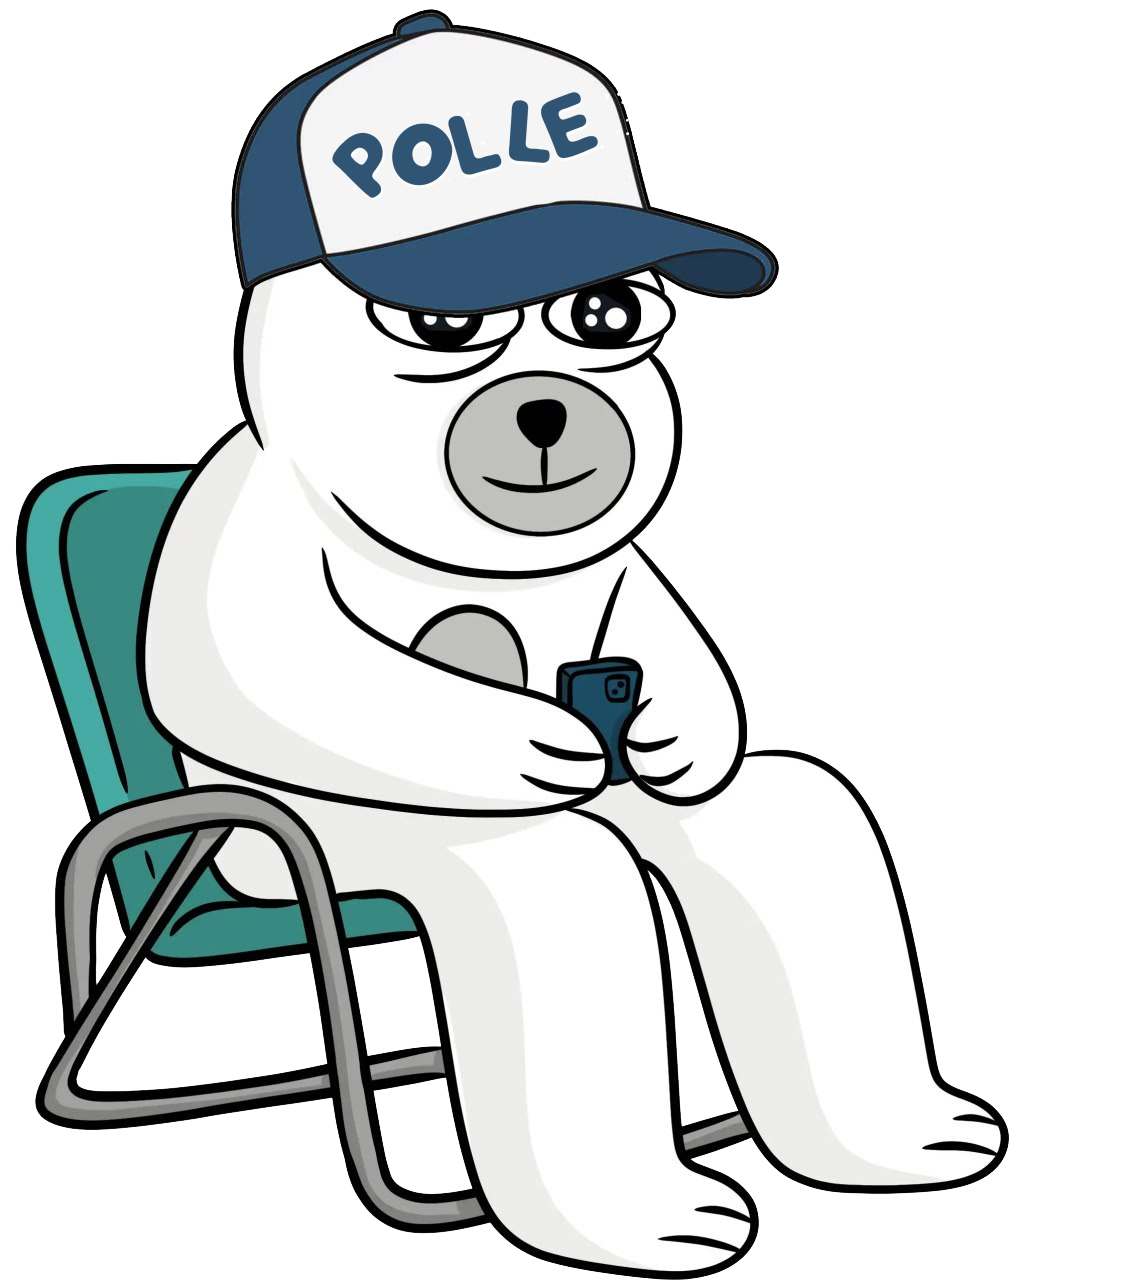
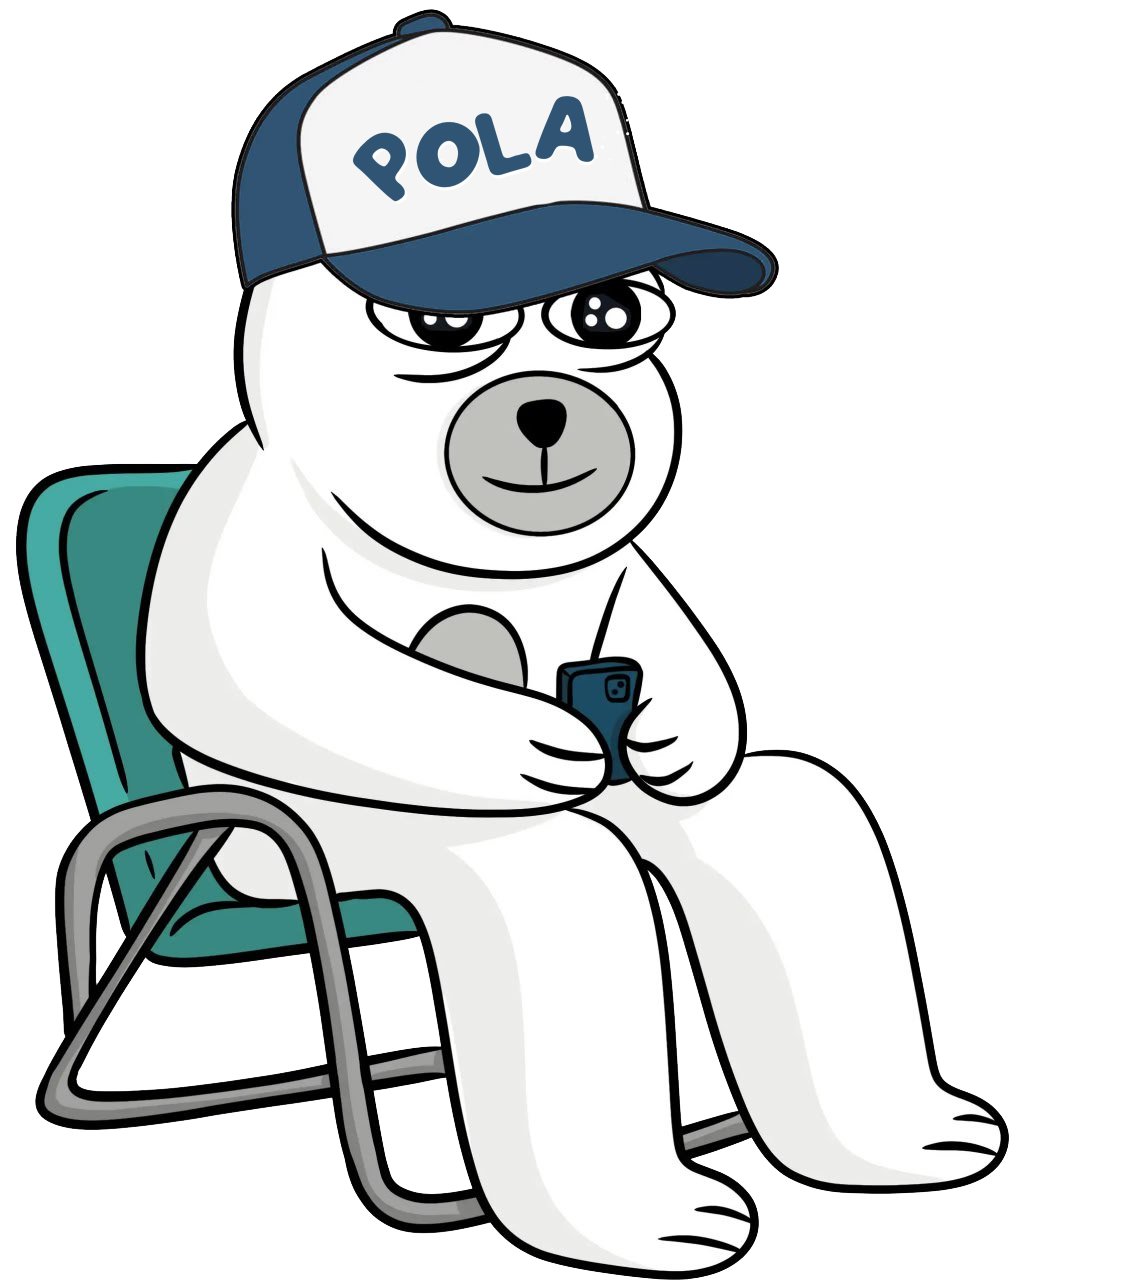
1

Changed region(s): [[0.2783, 0.0625, 0.5256, 0.1562]]

diff --git a/index.html b/index.html
@@ -16,22 +16,22 @@
 		<meta name="distribution" content="global"> 
 		<meta name="robots" content="index,follow"> 
 		<meta name="country" content="US">
-		<meta name="description" content="POLLE is the newest charismatic fluffy ruler of the frozen crypto tundra. This fun, decentralized, community-driven token is built on Solana Chain.">
+		<meta name="description" content="POLA is the newest charismatic fluffy ruler of the frozen crypto tundra. This fun, decentralized, community-driven token is built on Solana Chain.">
 		<meta name="google-site-verification" content="">
 		
 		<!-- Open Graph Meta Tags -->
 		<meta property="og:type" content="website">
 		<meta property="og:url" content="">
-		<meta property="og:title" content="POLLE | The Official POLLE Bear on Solanachain">
-		<meta property="og:description" content="POLLE is the newest charismatic fluffy ruler of the frozen crypto tundra. This fun, decentralized, community-driven token is built on Solana Chain.">
+		<meta property="og:title" content="POLA | The Official POLA Bear on Solanachain">
+		<meta property="og:description" content="POLA is the newest charismatic fluffy ruler of the frozen crypto tundra. This fun, decentralized, community-driven token is built on Solana Chain.">
 
 		
 		<!-- Twitter Card Meta Tags -->
 		<meta name="twitter:card" content="summary_large_image">
 		<meta name="twitter:site" content="@polaonbase">
 		<meta name="twitter:url" content="https://www.polaonbase.com/">
-		<meta name="twitter:title" content="POLLE | The Official POLLEr Bear on Solanachain">
-		<meta name="twitter:description" content="POLLE is the newest charismatic fluffy ruler of the frozen crypto tundra. This fun, decentralized, community-driven token is built on Solana Chain.">
+		<meta name="twitter:title" content="POLA | The Official POLAr Bear on Solanachain">
+		<meta name="twitter:description" content="POLA is the newest charismatic fluffy ruler of the frozen crypto tundra. This fun, decentralized, community-driven token is built on Solana Chain.">
 		<meta property="twitter:image" content="https://polaonbase.com/assets/images/pola-twitter-og.jpg">
 		
 		<!-- Favicon and Additional Resources -->
@@ -44,7 +44,7 @@
 		<meta name="msapplication-TileColor" content="#9c2730">
 		<meta name="theme-color" content="#ffffff">
 		
-		<title>POLLE | The Official Polar Bear on Solanachain</title>
+		<title>POLA | The Official Polar Bear on Solanachain</title>
 		<link href="assets/css/include.css" rel="stylesheet">
 		<!-- Google tag (gtag.js) -->
 		<script async src="https://www.googletagmanager.com/gtag/js?id=G-083C66RB80"></script>
@@ -73,13 +73,13 @@
 							<span>P</span>
 							<span>O</span>
 							<span>L</span>
-							<span>L</span>
-							<span style="rotate: -10deg; margin-left:-20px; margin-right: 10px;">E</span>
+							<span>A</span>
+<!--							<span style="rotate: -10deg; margin-left:-20px; margin-right: 10px;">E</span>-->
 <!--							<span>R</span>-->
 
 						</h1>
 						<div class="vstack mx-auto col-12 col-xl-6 milky fs-3 text-center gap-1 lh-base text-blue-4">
-							<span>Hi I'm POLLE</span>
+							<span>Hi I'm POLA</span>
 							<span>I'm the coldest, chillest, and funniest bear</span>
 							<span>in the entire SOLArctic. Welcome to my world.</span>
 						</div>
@@ -138,8 +138,8 @@
 				<div class="container py-5 position-relative">
 					<div class="d-flex flex-column col-12 col-lg-8 justify-content-center gap-4 text-center position-relative z-1 py-0 py-md-5 text-blue-4 milky">
 						<h2 class="display-3">A New King Has Risen</h2>
-						<p class="fs-5 lh-base">Meet POLLE, the latest ruler of the icy domains of cryptocurrency, a royal polar bear who's more chilled than the arctic ice and cooler than the other side of the pillow. Born on the vast, frostbitten landscapes of the Solana Chain, this fluffy monarch has swiftly ascended to the throne, not through bloodshed or conquest, but with sheer charisma and an unshakable belief in the power of meme magic.</p>
-						<p class="fs-5 lh-base">This is not your average bear. POLLE's reign is marked by his unorthodox approach to governance; he rules with a gentle paw and a heart as big as his appetite for salmon. In a world where seriousness often overshadows fun, POLLE dares to ask, "Why not both?" He's democratizing the crypto kingdom one belly slide at a time, proving that you can indeed mix business with pleasure and that every bear can have his fish and eat it too.</p>
+						<p class="fs-5 lh-base">Meet POLA, the latest ruler of the icy domains of cryptocurrency, a royal polar bear who's more chilled than the arctic ice and cooler than the other side of the pillow. Born on the vast, frostbitten landscapes of the Solana Chain, this fluffy monarch has swiftly ascended to the throne, not through bloodshed or conquest, but with sheer charisma and an unshakable belief in the power of meme magic.</p>
+						<p class="fs-5 lh-base">This is not your average bear. POLA's reign is marked by his unorthodox approach to governance; he rules with a gentle paw and a heart as big as his appetite for salmon. In a world where seriousness often overshadows fun, POLA dares to ask, "Why not both?" He's democratizing the crypto kingdom one belly slide at a time, proving that you can indeed mix business with pleasure and that every bear can have his fish and eat it too.</p>
 					</div>
 				</div>
 				<div class="baby-pola"></div>
@@ -149,17 +149,17 @@
 					<div class="d-flex flex-column-reverse flex-md-row gap-4">
 						<div class="d-flex flex-column justify-content-center gap-4 col-12 col-md-6">
 							<div class="d-flex flex-column gap-1 text-blue-4">
-								<span class="fs-4 milky lh-base">POLLE on Solanachain</span>
-								<h2 class="milky display-s lh-1 ">OFFICIAL POLLE LINKS</h2>
+								<span class="fs-4 milky lh-base">POLA on Solanachain</span>
+								<h2 class="milky display-s lh-1 ">OFFICIAL POLA LINKS</h2>
 							</div>
 
 							<div class="d-flex flex-column gap-2">
 								<span class="fs-6 milky fw-bolder text-blue-4">Social &amp; Onchain Data</span>
 								<div class="socials hstack gap-3">
-									<a href="https://x.com/pollesolana" target="_blank">
+									<a href="https://x.com/polacoincto" target="_blank">
 										<div class="icon twitter rounded-circle"></div>
 									</a>
-									<a href="https://t.me/pollesolana" target="_blank">
+									<a href="https://t.me/polacoincto" target="_blank">
 										<div class="icon telegram rounded-circle"></div>
 									</a>
 									<a href="#" target="_blank">
@@ -174,7 +174,7 @@
 								<span class="fs-6 milky fw-bolder text-blue-4">Exchanges (MORE TBA)</span>
 								<div class="row row-cols-2 row-cols-lg-3 g-3">
 									<div class="col">
-										<a href="https://pump.fun/bMwWYbVHBQqAeQ8kbkwvn9HWZwEhYBgShmnG58i9ump" target="_blank" class="h-100 btn btn-md btn-light rounded-pill w-100 py-2 px-3">
+										<a href="https://pump.fun/m8pLGjSkkk1wztp8xzt46xC9Eb1wZyvnSExaV1w2ump" target="_blank" class="h-100 btn btn-md btn-light rounded-pill w-100 py-2 px-3">
 											<img src="assets/logos/pumpfun.svg" class="w-75 mt-1" alt="uniswap link">
 										</a>
 									</div>
@@ -197,10 +197,10 @@
 							</div-->
 						</div>
 						<div class="col-12 col-md-4 pola-in-phone">
-							<a class="polarmy-buble polarmy-link" href="https://t.me/pollesolana"><img src="assets/images/pola-phone-bubble-r.png" class="w-100 " alt="click to join polarmy"></a>
-							<a href="https://t.me/pollesolana"><img src="assets/images/pola-phone-r.png" class="w-100 " alt="pola having fun on tg"></a>
-							<a class="polarmy-buble polarmy-link" href="https://t.me/pollesolana"><img src="assets/images/pola-phone-bubble-l.png" class="w-100 " alt="click to join polarmy"></a>
-							<a  href="https://t.me/pollesolana"><img src="assets/images/pola-phone-l.png" class="w-100 " alt="pola having fun on tg"></a>
+							<a class="polarmy-buble polarmy-link" href="https://t.me/polacoincto"><img src="assets/images/pola-phone-bubble-r.png" class="w-100 " alt="click to join polarmy"></a>
+							<a href="https://t.me/polacoincto"><img src="assets/images/pola-phone-r.png" class="w-100 " alt="pola having fun on tg"></a>
+							<a class="polarmy-buble polarmy-link" href="https://t.me/polacoincto"><img src="assets/images/pola-phone-bubble-l.png" class="w-100 " alt="click to join polarmy"></a>
+							<a  href="https://t.me/polacoincto"><img src="assets/images/pola-phone-l.png" class="w-100 " alt="pola having fun on tg"></a>
 						</div>
 					</div>
 					
@@ -226,17 +226,17 @@
 			<section id="tokenomics" class="position-relative bg-blue-4 py-5 snow-cap">
 				<div class="container py-5 position-relative">
 					<div class="vstack gap-4 text-center mb-5 col-12 col-xl-6 mx-auto text-white milky">
-						<h2 class="display-1 shouxietongzhen gradient-txt-1">POLLEnomics</h2>
-						<p class="fs-5 lh-base">Adhering to the ethos of decentralization, $POLLE adopted a strategy to ensure genuine community ownership and nurture growth with steadfast support from the community.</p>
+						<h2 class="display-1 shouxietongzhen gradient-txt-1">POLAnomics</h2>
+						<p class="fs-5 lh-base">Adhering to the ethos of decentralization, $POLA adopted a strategy to ensure genuine community ownership and nurture growth with steadfast support from the community.</p>
 					</div>
 
 					<div class="d-flex flex-column flex-xl-row disclaimer rounded-4 p-3 border border-4 border-blue-1 shadow gap-3 col-12 col-xl-8 mx-auto mb-4 bg-white milky text-blue-4">
-						<a href="https://pump.fun/bMwWYbVHBQqAeQ8kbkwvn9HWZwEhYBgShmnG58i9ump"><button class="btn btn-lg btn-light px-3">
-							<span class="fw-bold fs-6 text-blue-4">Buy $POLLE</span>
+						<a href="https://pump.fun/m8pLGjSkkk1wztp8xzt46xC9Eb1wZyvnSExaV1w2ump"><button class="btn btn-lg btn-light px-3">
+							<span class="fw-bold fs-6 text-blue-4">Buy $POLA</span>
 						</button></a>
 						<div class="col-12 col-xl-10 hstack gap-3 justify-content-between rounded-3 border p-1 fs-6">
-							<span class="text-truncate fw-bold ms-3 contact">Contract address: bMwWYbVHBQqAeQ8kbkwvn9HWZwEhYBgShmnG58i9ump</span>
-							<button class="btn btn-md btn-light copy" data-text="bMwWYbVHBQqAeQ8kbkwvn9HWZwEhYBgShmnG58i9ump">
+							<span class="text-truncate fw-bold ms-3 contact">Contract address: m8pLGjSkkk1wztp8xzt46xC9Eb1wZyvnSExaV1w2ump</span>
+							<button class="btn btn-md btn-light copy" data-text="m8pLGjSkkk1wztp8xzt46xC9Eb1wZyvnSExaV1w2ump">
 								<i class="bi bi-clipboard"></i>
 							</button>
 						</div>
@@ -309,7 +309,7 @@
 									<img src="assets/images/icons/base.svg" class="w-100" alt="base logo">
 								</div>
 								<h3 class="fw-bolder fs-1 milky text-uppercase lh-1">Secure Solana (BASE ETH)</h3>
-								<p class="fs-6 lh-base milky">Purchase Solanachain Ethereum (BASE), the foundational currency required for transactions on the base network where $POLLE operates. BASE ETH acts as the "gas" for transactions, including buying $POLLE.</p>
+								<p class="fs-6 lh-base milky">Purchase Solanachain Ethereum (BASE), the foundational currency required for transactions on the base network where $POLA operates. BASE ETH acts as the "gas" for transactions, including buying $POLA.</p>
 							</div>
 						</div>
 						<div class="col">
@@ -317,8 +317,8 @@
 								<div class="col-4 col-md-2">
 									<img src="assets/images/pola-5.webp" class="w-100" alt="buy pola">
 								</div>
-								<h3 class="fw-bolder fs-1 milky text-uppercase lh-1">Buy $POLLE</h3>
-								<p class="fs-6 lh-base milky">Use your newly acquired BASE ETH to purchase $POLLE tokens through a cryptocurrency exchange or decentralized exchange platform that lists $POLLE.</p>
+								<h3 class="fw-bolder fs-1 milky text-uppercase lh-1">Buy $POLA</h3>
+								<p class="fs-6 lh-base milky">Use your newly acquired BASE ETH to purchase $POLA tokens through a cryptocurrency exchange or decentralized exchange platform that lists $POLA.</p>
 							</div>
 						</div>
 						<div class="col">
@@ -327,7 +327,7 @@
 									<img src="assets/images/icons/crypto-wallet.svg" class="w-100" alt="wallet logo">
 								</div>
 								<h3 class="fw-bolder fs-1 milky text-uppercase lh-1">Add To Your Wallet</h3>
-								<p class="fs-6 lh-base milky">Import $POLLE tokens into your MetaMask wallet by adding the pola token's contract address. This allows you to view and manage your $POLLE holdings directly within MetaMask.</p>
+								<p class="fs-6 lh-base milky">Import $POLA tokens into your MetaMask wallet by adding the pola token's contract address. This allows you to view and manage your $POLA holdings directly within MetaMask.</p>
 							</div>
 						</div>
 					</div>
@@ -345,8 +345,8 @@
 					
 						<img src="assets/images/VPN-Logo.svg" class="vpn-logo" alt="pola vpn logo">
 						
-						<h2 class="text-nowrap milky display-s lh-1">POLLE VPN</h2>
-						<span class="text-center fs-6 lh-base milky">POLLEVPN is the very first memecoin to have this feature. it is your gateway to a secure and unrestricted online experience, designed with your privacy in mind. Whether you're browsing, streaming, or working remotely, POLLEVPN ensures your data stays protected and your connections remain anonymous.</span>
+						<h2 class="text-nowrap milky display-s lh-1">POLA VPN</h2>
+						<span class="text-center fs-6 lh-base milky">POLAVPN is the very first memecoin to have this feature. it is your gateway to a secure and unrestricted online experience, designed with your privacy in mind. Whether you're browsing, streaming, or working remotely, POLAVPN ensures your data stays protected and your connections remain anonymous.</span>
 						<div class="vpn-button-container" >
 							<button type="button" id="openISOApp" class="vpn-button border btn btn-light rounded-pill milky py-4 p-5 hstack gap-3 justify-content-center w-48">
 								<span class="fw-bolder fs-4">Android App soon</span>
@@ -403,10 +403,10 @@
 								<img src="assets/images/nfts/10.webp" alt="pola nft">
 							</div>
 						</div>
-						<h2 class="display-s lh-1 milky text-blue-4">POLLE NFT</h2>
+						<h2 class="display-s lh-1 milky text-blue-4">POLA NFT</h2>
 						<div class="vstack gap-3 fs-6 fw-normal lh-base text-dark text-opacity-75">
-							<p>Explore POLLE NFT, an enchanting collection of 5,000 NFTs, released on Solana drawing inspiration from a cherished polar bear, these NFTs capture the essence and spirit of a unique polar bear-inspired theme.</p>
-							<p>Owning a POLLE NFT connects you to the dynamic community surrounding this theme, signifying your appreciation and embrace of the unique culture these digital assets symbolize.</p>
+							<p>Explore POLA NFT, an enchanting collection of 5,000 NFTs, released on Solana drawing inspiration from a cherished polar bear, these NFTs capture the essence and spirit of a unique polar bear-inspired theme.</p>
+							<p>Owning a POLA NFT connects you to the dynamic community surrounding this theme, signifying your appreciation and embrace of the unique culture these digital assets symbolize.</p>
 						</div>
 						<div>
 							<span class="fw-bold fw-bold py-2 rounded-pill">Collection Coming Soon</span>
@@ -423,14 +423,14 @@
 							<div class="d-flex flex-column gap-1 text-blue-4">
 								<span class="fs-4 milky">Ice Cream Products</span>
 								<div class="hstack">
-									<h2 id="data-title" class="text-nowrap milky display-s lh-1">POLLEPops</h2>
+									<h2 id="data-title" class="text-nowrap milky display-s lh-1">POLAPops</h2>
 									<span class="fs-2 fw-bold lh-1">ⓒ</span>
 								</div>
-								<span id="data-description" class="fs-6 lh-base milky">POLLE Pops brings a refreshing twist to your favorite frozen treat! Our ice creams are handcrafted with natural ingredients, offering a burst of flavors that are as unique as they are delicious. From the classic creamy delights to exotic fruit-filled wonders, each POLLE Pop is designed to provide a blissful escape into a world of sweet, frosty pleasure.</span>
+								<span id="data-description" class="fs-6 lh-base milky">POLA Pops brings a refreshing twist to your favorite frozen treat! Our ice creams are handcrafted with natural ingredients, offering a burst of flavors that are as unique as they are delicious. From the classic creamy delights to exotic fruit-filled wonders, each POLA Pop is designed to provide a blissful escape into a world of sweet, frosty pleasure.</span>
 							</div>
 
 							<div class="d-flex flex-column gap-4">
-								<span class="fs-3 milky text-blue-4">POLLEPops Flavors</span>
+								<span class="fs-3 milky text-blue-4">POLAPops Flavors</span>
 								<div class="row row-cols-3 row-cols-md-5 g-3 ice-creams">
 																		<div data-id="1" class="col data-source">
 										<a role="button" data-image="assets/flavors/1.webp" class="vstack h-100 rounded-4 p-3 gap-3 text-center">
@@ -499,7 +499,7 @@
 								<span class="fw-bold fs-6">Legal Disclaimer</span>
 								<i class="bi bi-arrow-down-circle-fill"></i>
 							</a>
-							<p id="legal" class="p-3 fs-7 lh-base d-none text-white">The content on the POLLE Token website is not meant to be understood as investment, financial, trading, or any form of advice, and should not be interpreted as such. POLLE Token does not suggest that any should be bought, sold, or held by you. It is important to perform your own thorough research and consult with your financial advisor prior to making any investment decisions. By acquiring POLLE Token, you acknowledge that you are not obtaining a security or investment and you agree to absolve POLLE Token of any responsibility for any losses or taxes you may face. Additionally, you accept that POLLE Token is offered "as is" without any obligation for support or services. Expectations from POLLE Token should be none. Although POLLE Token is designed for social networking and is not a registered digital currency, it is highly advised that individuals in locations where is banned by the government refrain from purchasing it, as POLLE Token cannot guarantee adherence to the legal requirements of your region. Always ensure your actions are in full compliance with local laws and regulations before making any purchases.</p>
+							<p id="legal" class="p-3 fs-7 lh-base d-none text-white">The content on the POLA Token website is not meant to be understood as investment, financial, trading, or any form of advice, and should not be interpreted as such. POLA Token does not suggest that any should be bought, sold, or held by you. It is important to perform your own thorough research and consult with your financial advisor prior to making any investment decisions. By acquiring POLA Token, you acknowledge that you are not obtaining a security or investment and you agree to absolve POLA Token of any responsibility for any losses or taxes you may face. Additionally, you accept that POLA Token is offered "as is" without any obligation for support or services. Expectations from POLA Token should be none. Although POLA Token is designed for social networking and is not a registered digital currency, it is highly advised that individuals in locations where is banned by the government refrain from purchasing it, as POLA Token cannot guarantee adherence to the legal requirements of your region. Always ensure your actions are in full compliance with local laws and regulations before making any purchases.</p>
 						</div>
 
 						<div class="vstack disclaimer rounded-4 shadow-sm">
@@ -512,11 +512,11 @@
 
 						<div class="d-flex flex-column flex-xl-row disclaimer rounded-4 p-3 shadow gap-3">
 							<button class="btn btn-lg btn-light px-3">
-								<a class="fw-bold fs-6 text-nowrap text-black" href="https://pump.fun/bMwWYbVHBQqAeQ8kbkwvn9HWZwEhYBgShmnG58i9ump" target="_blank">Buy $POLLE</a>
+								<a class="fw-bold fs-6 text-nowrap text-black" href="https://pump.fun/m8pLGjSkkk1wztp8xzt46xC9Eb1wZyvnSExaV1w2ump" target="_blank">Buy $POLA</a>
 							</button>
 							<div class="col-12 col-xl-10 text-white hstack gap-3 justify-content-between rounded-3 border p-1 fs-6">
-								<span class="text-truncate fw-bold ms-3 contact">Contract address: bMwWYbVHBQqAeQ8kbkwvn9HWZwEhYBgShmnG58i9ump</span>
-								<button class="btn btn-md btn-light copy" data-text="bMwWYbVHBQqAeQ8kbkwvn9HWZwEhYBgShmnG58i9ump">
+								<span class="text-truncate fw-bold ms-3 contact">Contract address: m8pLGjSkkk1wztp8xzt46xC9Eb1wZyvnSExaV1w2ump</span>
+								<button class="btn btn-md btn-light copy" data-text="m8pLGjSkkk1wztp8xzt46xC9Eb1wZyvnSExaV1w2ump">
 									<i class="bi bi-clipboard"></i>
 								</button>
 							</div>
@@ -526,10 +526,10 @@
 							<div class="col-12 col-md-4">
 								<div class="vstack gap-3">
 									<img src="assets/logos/pola.svg" class="col-8" alt="pola logo">
-									<small class="d-block mb-3">Collect, create, and engage with POLLE!</small>
+									<small class="d-block mb-3">Collect, create, and engage with POLA!</small>
 									<div class="hstack gap-4">
-										<a href="https://x.com/pollesolana" target="_blank" class="fs-4"><i class="bi bi-twitter"></i></a>
-										<a href="https://t.me/pollesolana" target="_blank" class="fs-4"><i class="bi bi-telegram"></i></a>
+										<a href="https://x.com/polacoincto" target="_blank" class="fs-4"><i class="bi bi-twitter"></i></a>
+										<a href="https://t.me/polacoincto" target="_blank" class="fs-4"><i class="bi bi-telegram"></i></a>
 									</div>
 								</div>
 							</div>
@@ -543,13 +543,13 @@
 		<div class="menu text-nowrap rounded-pill position-fixed bottom-0 z-3 bg-white border border-4 shadow d-none d-lg-block">
 			<div class="menu-list hstack gap-1">
 								<a href="#home" class="d-none d-md-block btn rounded-pill active.">Home</a>
-								<a href="#about" class="d-none d-md-block btn rounded-pill">About POLLE</a>
+								<a href="#about" class="d-none d-md-block btn rounded-pill">About POLA</a>
 								<a href="#links" class="d-none d-md-block btn rounded-pill">Ecosystem</a>
 								<a href="#tokenomics" class="d-none d-md-block btn rounded-pill">Tokenomics</a>
 
 								<a href="#vpn" class="d-none d-md-block btn rounded-pill">VPN</a>
 								<a href="#nft" class="d-none d-md-block btn rounded-pill">NFT</a>
-								<a href="#popsicles" class="d-none d-md-block btn rounded-pill">POLLEPops</a>
+								<a href="#popsicles" class="d-none d-md-block btn rounded-pill">POLAPops</a>
 								<a href="#" class="d-block d-md-none hamburger-menu">
 					<div></div>
 					<div></div>
